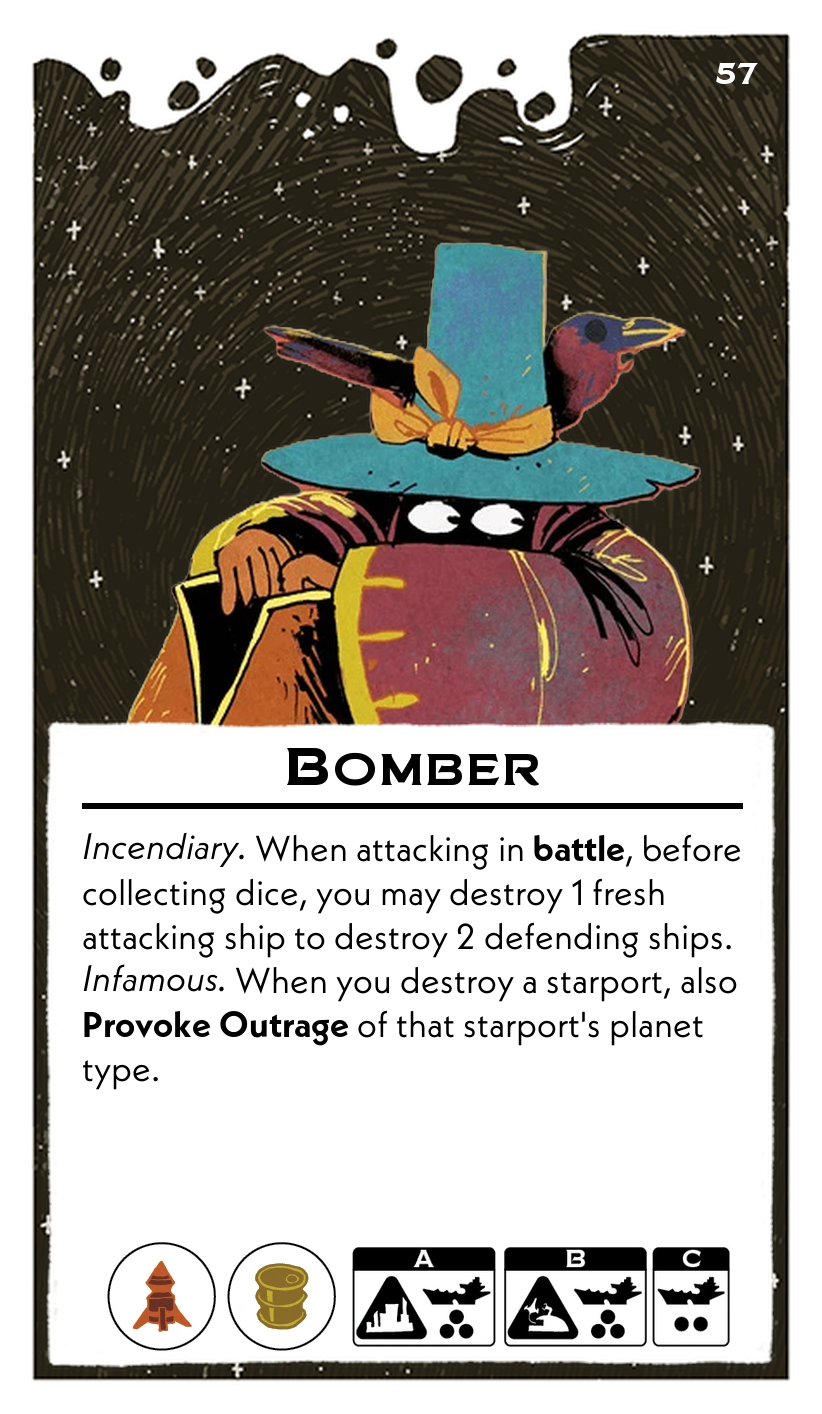
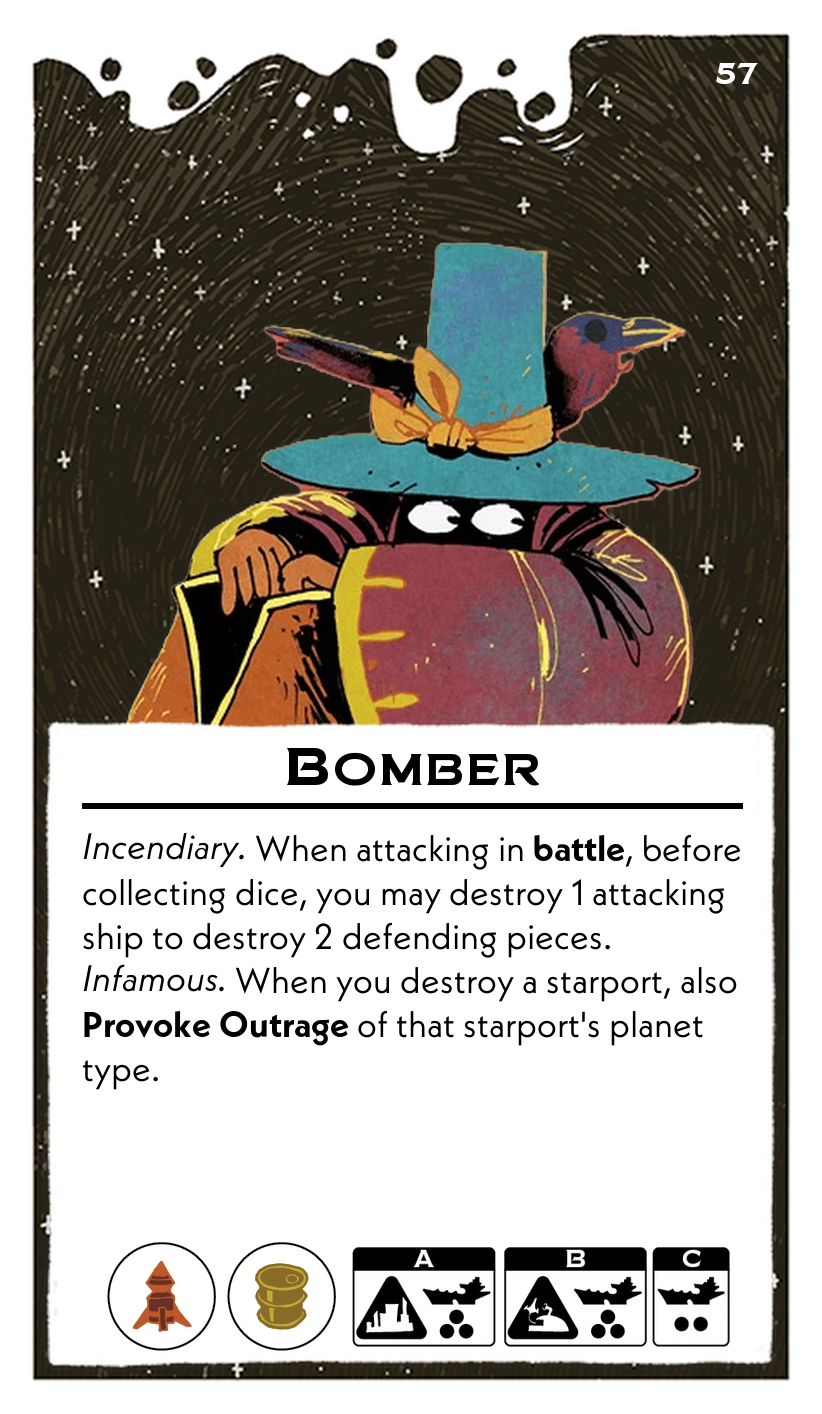
3 ls

Changed region(s): [[0.0912, 0.6223, 0.882, 0.6846]]

diff --git a/scripts/leadersFormatted.py b/scripts/leadersFormatted.py
@@ -85,7 +85,7 @@ leaders = [
     {
         "name": "Manipulator",
         "abilities": (
-            "*Clever.* When you **declare** **an** **ambition**, you may move any agents on cards to other cards.\n"
+            "*Clever.* When you **declare** **an** **undeclared** **ambition**, you may move any agents on cards to other cards.\n"
             "*Fraudulent.* When you **secure** a card with Rival agents on it, capture/take only 1 and place the rest on other cards."
         ),
         "resources": ["Psionic", "Psionic"],
@@ -733,7 +733,7 @@ leaders = [
         "name": "Salvager",
         "abilities": (
             "*Opportunistic.* After a **battle** in a system adjacent to one of your ships, if any ship was destroyed in that battle, you may place 1 ship in that system.\n"
-            "*Grimy.* At the end of each chapter, damage 1 Loyal ship in each system that has any damaged ships."
+            "*Grimy.* You can build at most 1 ship per turn."
         ),
         "resources": ["Weapon", "Fuel"],
         "setup": {
@@ -875,7 +875,7 @@ leaders = [
     {
         "name": "Bomber",
         "abilities": (
-            "*Incendiary.* When attacking in **battle**, before collecting dice, you may destroy 1 fresh attacking ship to destroy 2 defending ships.\n"
+            "*Incendiary.* When attacking in **battle**, before collecting dice, you may destroy 1 attacking ship to destroy 2 defending pieces.\n"
             "*Infamous.* When you destroy a starport, also **Provoke** **Outrage** of that starport's planet type."
         ),
         "resources": ["Weapon", "Fuel"],
